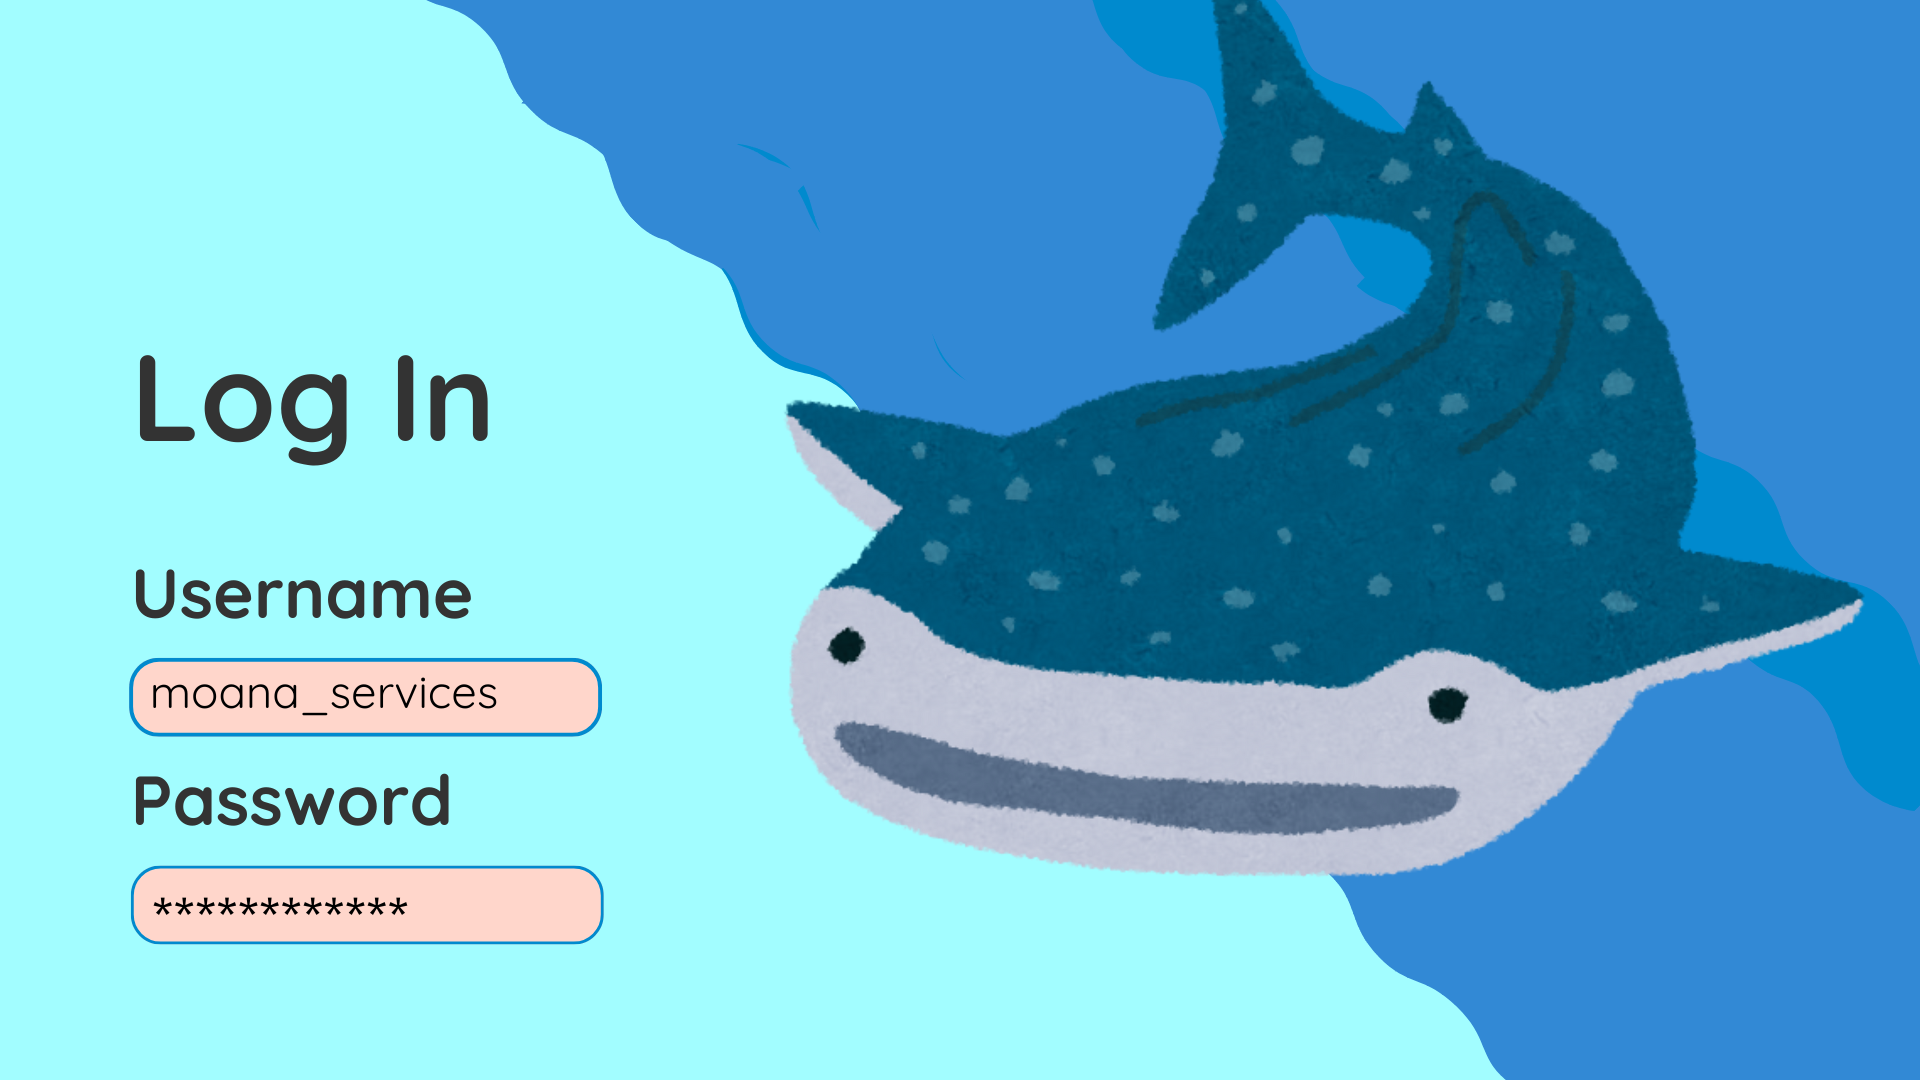
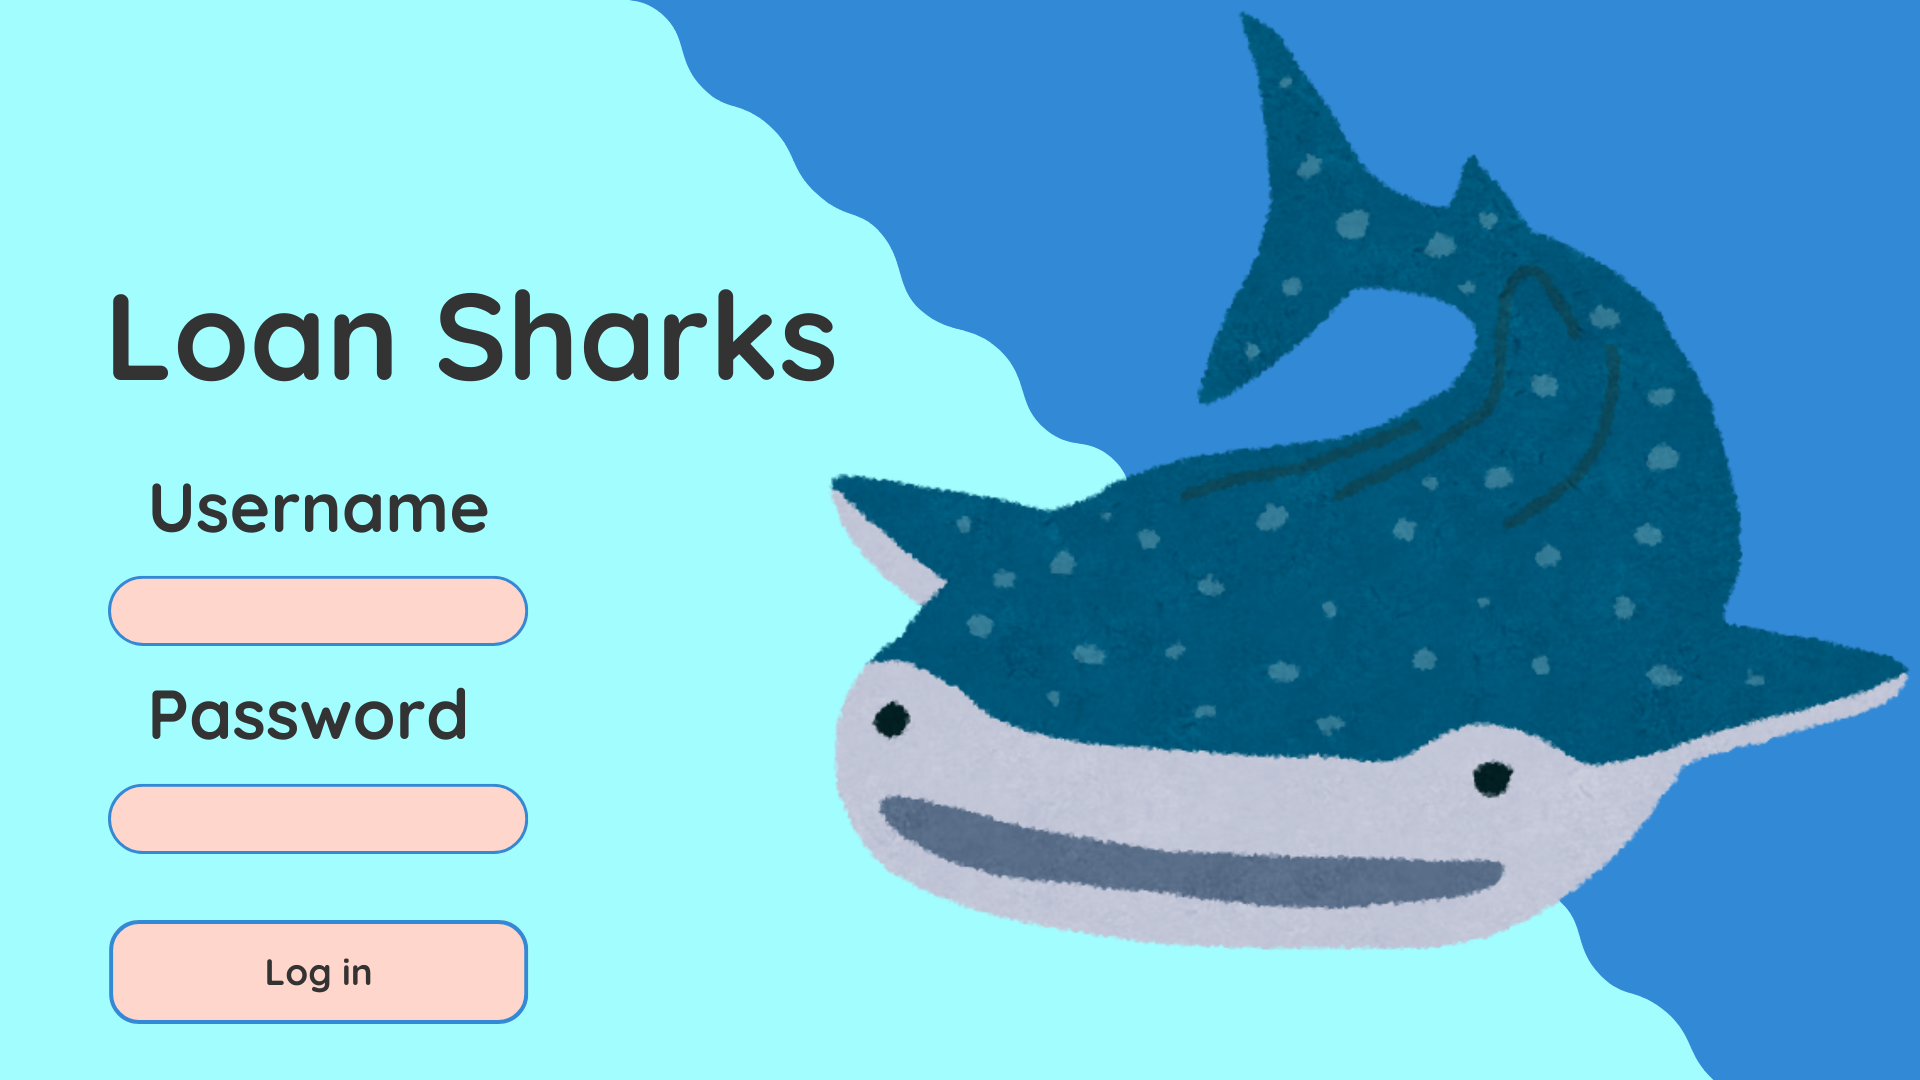
feat: completed login screen with image, field and buttons

diff --git a/src/main/resources/css/index.css b/src/main/resources/css/index.css
@@ -9,7 +9,19 @@
     -fx-background-color: #ffdaca;
     -fx-border-width: 2px;
     -fx-border-color: #008ace;
-    -fx-border-radius: 20px;
-    -fx-background-radius: 25px;
+    -fx-border-radius: 30px;
+    -fx-background-radius: 35px;
     -fx-text-fill: #333333;
+    -fx-font-size: 20px;
+    -fx-font-family: 'monospace';
+}
+
+.regular-button {
+    -fx-background-color: #ffdaca;
+    -fx-border-width: 3px;
+    -fx-border-color: #008ace;
+    -fx-text-fill: #333333;
+    -fx-background-radius: 25px;
+    -fx-border-radius: 20px;
+    -fx-cursor: hand;
 }
